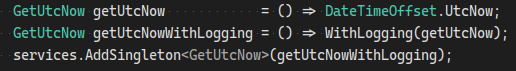
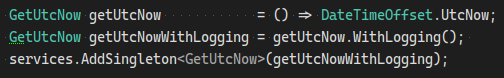
fixed hof

diff --git a/TravelAgency/DeclarativeCode/GetUtcNow.cs b/TravelAgency/DeclarativeCode/GetUtcNow.cs
@@ -5,11 +5,12 @@ namespace TravelAgency.DeclarativeCode {
     public delegate DateTimeOffset GetUtcNow();
 
     public static class GetUtcNowDecorator {
-        public static DateTimeOffset WithLogging(GetUtcNow getUtcNow) {
-            var now = getUtcNow();
-            Log.Information("Current time {CurrentTime}", now);
+        public static GetUtcNow WithLogging(this GetUtcNow getUtcNow)
+            => () => {
+                var now = getUtcNow();
+                Log.Information("Current time {CurrentTime}", now);
 
-            return now;
-        }
+                return now;
+            };
     }
 }
